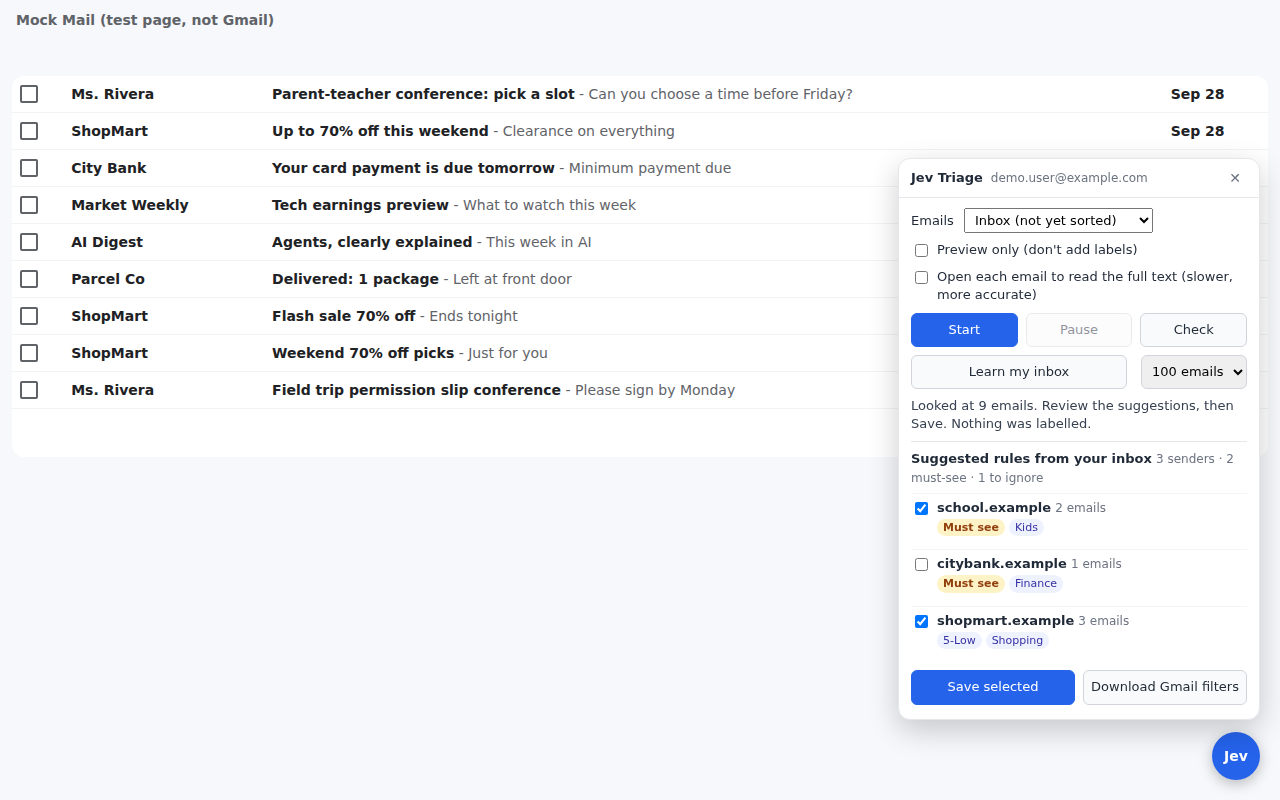
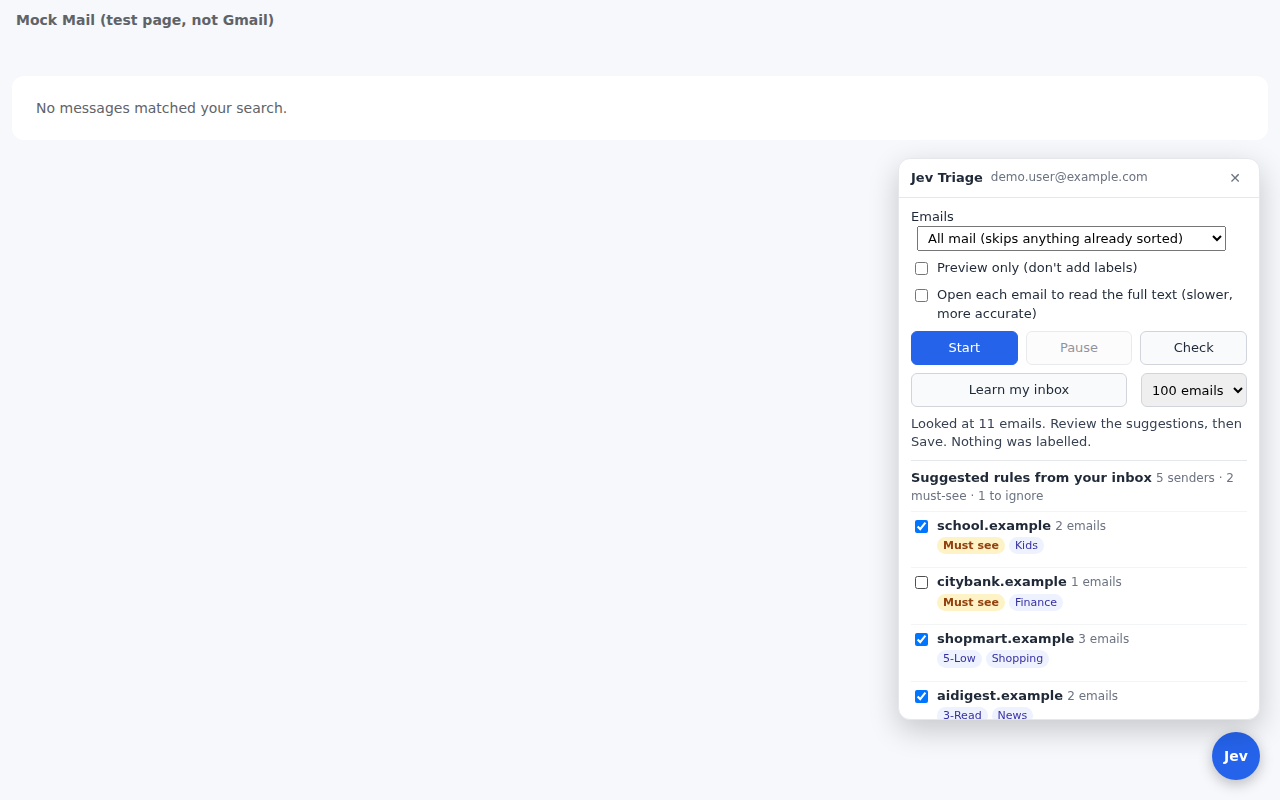
Sort all mail by default, resume reliably, skip failures
- All mail is the default scope; the run skips anything with a Jev action label
- Remembers sorted threads so a lagging Gmail search can't cause re-work
- Pages forward when everything visible is sorted; finishes when only skipped mail is left
- A failing email is skipped (and retried next run) instead of stopping the run
- Learn my inbox skips emails Jev can't classify
- Tests: paging, search-index lag, a failing email, and a second run that changes nothing

Claude-Session: https://claude.ai/code/session_01Rn7wA2DzfrgDYfL7tA3JVC

diff --git a/extension/content.js b/extension/content.js
@@ -32,8 +32,8 @@
     <div class="jev-head"><b>Jev Triage</b><span id="jev-me"></span><button id="jev-close" title="Hide">✕</button></div>
     <div class="jev-body">
       <label>Emails <select id="jev-scope">
-        <option value="inbox">Inbox (not yet sorted)</option>
-        <option value="all">All mail (not yet sorted)</option>
+        <option value="all" selected>All mail (skips anything already sorted)</option>
+        <option value="inbox">Inbox only (skips anything already sorted)</option>
         <option value="view">Current page only</option>
       </select></label>
       <label class="jev-check"><input type="checkbox" id="jev-preview"> Preview only (don't add labels)</label>
@@ -146,55 +146,91 @@
   }
 
   // ---------- the loop ----------
+  // Thread ids this browser has already sorted. Gmail's search index can lag a few seconds
+  // behind a label change, so labelled emails may still show up briefly; this list stops us
+  // re-doing them. The label itself is the real record (the search skips labelled mail).
+  async function loadDone() {
+    const { jevDone = [] } = await chrome.storage.local.get('jevDone');
+    return new Set(jevDone);
+  }
+  async function saveDone(done) {
+    const list = [...done];
+    await chrome.storage.local.set({ jevDone: list.slice(-50000) });
+  }
+
   async function run() {
     tax = await T.load();
     const scope = SCOPES[$('jev-scope').value];
     const opts = { preview: $('jev-preview').checked, deep: $('jev-deep').checked };
+    const done = opts.preview ? new Set() : await loadDone();
     running = true; doneThisRun.clear();
     $('jev-start').disabled = true; $('jev-stop').disabled = false;
-    let handled = 0;
+    let handled = 0, failed = 0, failStreak = 0, page = 1, idleReloads = 0, advancedPastSorted = false;
+    const query = scope.query ? scope.query + ' ' + T.unsortedQuery(tax) : null;
     try {
       while (running) {
-        if (scope.query) {
-          status('Loading ' + scope.name + '…');
-          await UI.settle(2000);                              // let Gmail save before reloading the list
-          UI.goToSearch(scope.query + ' ' + T.unsortedQuery(tax));
+        if (query) {
+          status(`Loading ${scope.name}${page > 1 ? ', page ' + page : ''}… (${handled} sorted so far)`);
+          await UI.settle(1500);                              // let Gmail save before reloading the list
+          UI.goToSearch(query, page);
           const state = await UI.waitForList();
-          if (state === 'empty') { status(`All done: nothing left to sort in ${scope.name}. (${handled} this run)`); break; }
-          if (!state) throw new Error('Gmail list did not load.');
+          if (!state) throw new Error('Gmail list did not load. Check your connection and press Start again.');
+          if (state === 'empty') {
+            // Nothing past the sorted/skipped emails on the previous page: we're finished.
+            if (page > 1 && !advancedPastSorted) { page = 1; continue; }   // pages shifted: re-check page 1
+            status(`All done: nothing left to sort in ${scope.name}. ${handled} sorted this run${failed ? `, ${failed} skipped (they'll be retried next time)` : ''}.`);
+            break;
+          }
         }
-        const rows = UI.listRows().map(UI.readRow).filter(r => !doneThisRun.has(r.id));
+        const visible = UI.listRows().map(UI.readRow);
+        const rows = visible.filter(r => !doneThisRun.has(r.id) && !done.has(r.id));
         if (!rows.length) {
-          status(`Finished this page. ${handled} sorted this run.`);
-          break;
+          if (!query) { status(`Done. ${handled} emails.`); break; }
+          // Everything on screen is already sorted: either Gmail's search hasn't caught up yet,
+          // or the remaining unsorted mail is on a later page.
+          if (idleReloads < 2) { idleReloads++; status('Waiting for Gmail to catch up…'); await UI.sleep(4000); continue; }
+          idleReloads = 0; page++; advancedPastSorted = true;
+          if (page > 200) { status(`Stopped after 200 pages. ${handled} sorted.`); break; }
+          continue;
         }
-        const before = handled;
+        idleReloads = 0; advancedPastSorted = false;
         for (const r of rows) {
           if (!running) break;
           status(`(${handled + 1}) ${r.subject.slice(0, 60)}`);
           try {
             await handle(r, opts);
+            failStreak = 0;
           } catch (e) {
-            if (!UI.dismissGmailError() && !/not showing|not visible|did not open|Lost track/.test(e.message)) throw e;
-            status('Gmail hiccuped, waiting 8 s and retrying this email…');
-            await UI.sleep(8000);
-            const again = UI.findRowById(r.id);
-            if (again) { for (const cb of UI.listRows()) await UI.setSelected(cb, false).catch(() => {}); await handle(r, opts); }
+            // One bad email shouldn't end the run: dismiss Gmail's error, clear the selection, move on.
+            UI.dismissGmailError();
+            for (const row of UI.listRows()) await UI.setSelected(row, false).catch(() => {});
+            failed++; failStreak++;
+            logSkip(r, e.message);
+            if (failStreak >= 5) throw new Error('5 emails in a row failed. Last error: ' + e.message);
+            await UI.sleep(3000);
           }
           doneThisRun.add(r.id);
-          handled++;
+          if (failStreak === 0 && !opts.preview) { done.add(r.id); if (handled % 10 === 0) await saveDone(done); }
+          if (failStreak === 0) handled++;
           if (opts.preview && handled >= 10) { running = false; status('Preview of 10 done. Untick "Preview only" to label.'); }
-          if (!(await UI.settle(1500))) { status('Gmail showed an error; pausing 10 s…'); await UI.sleep(10000); }
+          if (!(await UI.settle(1200))) { status('Gmail showed an error; pausing 10 s…'); await UI.sleep(10000); }
         }
-        if (!scope.query || opts.preview) { if (running) status(`Done. ${handled} emails.`); break; }
-        if (handled === before) break;         // safety: nothing got done on this page
+        if (!query || opts.preview) { if (running) status(`Done. ${handled} emails.`); break; }
       }
+      if (!running && !/All done|Preview/.test($('jev-status').textContent)) status(`Paused. ${handled} sorted this run. Press Start to continue where it left off.`);
     } catch (e) {
-      status('Stopped: ' + e.message, true);
+      status('Stopped: ' + e.message + ` (${handled} sorted). Press Start to continue.`, true);
     } finally {
+      if (!opts.preview) await saveDone(done);
       running = false;
       $('jev-start').disabled = false; $('jev-stop').disabled = true;
     }
+  }
+
+  function logSkip(r, msg) {
+    const li = document.createElement('li');
+    li.innerHTML = `<span class="jev-subj">${esc(r.subject)}</span><span class="jev-chip jev-u" title="${esc(msg)}">skipped: ${esc(msg.slice(0, 60))}</span>`;
+    $('jev-log').prepend(li);
   }
 
   // ---------- Learn my inbox: suggest sender rules for THIS user ----------
@@ -260,7 +296,8 @@
       for (const r of rows) {
         if (!running) break;
         status(`Learning ${results.length + 1}/${rows.length}: ${r.subject.slice(0, 50)}`);
-        results.push({ r, res: await askJev(r, '') });
+        try { results.push({ r, res: await askJev(r, '') }); }
+        catch (e) { if (/API key/.test(e.message)) throw e; }   // one odd email shouldn't stop learning
       }
       suggestions = suggest(results);
       renderSuggestions();

diff --git a/test/mock-gmail.html b/test/mock-gmail.html
@@ -13,6 +13,8 @@
     • searching for "not yet sorted" mail hides a row as soon as it gets an action label (Jev/1-…6-)
   URL options:  ?oops=N  shows Gmail's "Oops, something went wrong" on the Nth label change
                 ?existing=Label1,Label2  labels that already exist
+                ?pagesize=N  rows per page (Gmail shows 50); "#search/…/p2" opens page 2
+                ?lag=N  sorted emails keep showing in "not yet sorted" for N more reloads (search index lag)
   If Gmail changes and the extension breaks, update this file to match the new page, then fix SEL.
 -->
 <style>
@@ -55,10 +57,16 @@ const MAIL = [
   { id: 't7', from: ['ShopMart', 'offers@news.shopmart.example'], subject: 'Flash sale 70% off', snippet: 'Ends tonight' },
   { id: 't8', from: ['ShopMart', 'deals@shopmart.example'], subject: 'Weekend 70% off picks', snippet: 'Just for you' },
   { id: 't9', from: ['Ms. Rivera', 'teacher@school.example'], subject: 'Field trip permission slip conference', snippet: 'Please sign by Monday' },
+  { id: 't10', from: ['Odd Sender', 'x@broken.example'], subject: 'BROKEN email the classifier rejects', snippet: 'test of a failure' },
+  { id: 't11', from: ['Parcel Co', 'track@parcel.example'], subject: 'Out for delivery today', snippet: 'Arriving by 8pm' },
+  { id: 't12', from: ['AI Digest', 'hello@aidigest.example'], subject: 'Agents part 2', snippet: 'More on agents' },
 ];
 const params = new URLSearchParams(location.search);
 const EXISTING = new Set((params.get('existing') || 'Jev/5-Low,Topic/Shopping').split(',').filter(Boolean));
 const OOPS_AT = Number(params.get('oops') || 0);
+const PAGE_SIZE = Number(params.get('pagesize') || 50);
+const LAG = Number(params.get('lag') || 0);
+let reloads = 0; const sortedAt = {};
 const applied = {}; window.__applied = applied; window.__created = []; window.__archived = [];
 let labelChanges = 0;
 
@@ -67,7 +75,11 @@ const unsortedOnly = () => decodeURIComponent(location.hash).includes('-label:je
 
 function render() {
   const tb = document.getElementById('tb'); tb.innerHTML = '';
-  const list = MAIL.filter(m => !window.__archived.includes(m.id) && !(unsortedOnly() && (applied[m.id] || []).some(isAction)));
+  reloads++;
+  const hidden = id => (applied[id] || []).some(isAction) && sortedAt[id] !== undefined && reloads - sortedAt[id] > LAG;
+  const all = MAIL.filter(m => !window.__archived.includes(m.id) && !(unsortedOnly() && hidden(m.id)));
+  const pageNo = Number((location.hash.match(/\/p(\d+)$/) || [])[1] || 1);
+  const list = all.slice((pageNo - 1) * PAGE_SIZE, pageNo * PAGE_SIZE);
   document.getElementById('empty').textContent = list.length ? '' : 'No messages matched your search.';
   for (const m of list) {
     const tr = document.createElement('tr'); tr.className = 'zA zE';
@@ -105,8 +117,9 @@ function addLabel(name, { archive = false } = {}) {
   if (OOPS_AT && labelChanges === OOPS_AT) { oops(); return; }
   for (const id of selected()) {
     (applied[id] = applied[id] || []).push(name);
+    if (isAction(name) && sortedAt[id] === undefined) sortedAt[id] = reloads;
     if (archive) window.__archived.push(id);
-    if (archive || (isAction(name) && unsortedOnly())) document.querySelector(`[data-legacy-thread-id="${id}"]`).closest('tr').remove();
+    if (archive || (isAction(name) && unsortedOnly() && !LAG)) document.querySelector(`[data-legacy-thread-id="${id}"]`).closest('tr').remove();
   }
   syncButtons();
 }

diff --git a/extension/gmail-ui.js b/extension/gmail-ui.js
@@ -305,11 +305,11 @@
     await settle(1500);
   }
 
-  function goToSearch(query) {
+  function goToSearch(query, page = 1) {
     // A harmless alternating term forces Gmail to re-run the search (so labelled threads drop out).
     root.__jevFlip = !root.__jevFlip;
     const q = query + (root.__jevFlip ? ' -in:chats' : ' -in:spam');
-    location.hash = '#search/' + encodeURIComponent(q).replace(/%20/g, '+');
+    location.hash = '#search/' + encodeURIComponent(q).replace(/%20/g, '+') + (page > 1 ? '/p' + page : '');
   }
 
   async function waitForList() {

diff --git a/README.md b/README.md
@@ -53,7 +53,12 @@ Choose how many recent emails to look at and click **Learn my inbox**. Jev class
 
 ### 5. Sort
 
-Pick **Inbox** or **All mail** and click **Start**. Keep the tab open; it works through the list and reloads it until nothing is left. **Pause** stops after the current email.
+Leave **All mail** selected and click **Start**. Keep the tab open (and visible, so Chrome doesn't slow it down).
+
+- **Why the address bar changes:** Start opens a Gmail search for emails that don't have a `Jev/` action label yet (`-label:jev-1-reply -label:jev-2-action …`). That search is how it skips anything already sorted, by this extension or by your imported filters.
+- **It keeps going on its own:** it works through the list, reloads it, waits if Gmail's search is a few seconds behind, and moves to later pages until nothing unsorted is left.
+- **One bad email doesn't stop it:** if an email fails (Gmail hiccup, Jev error) it's skipped, shown in red in the panel, and retried on the next Start. It only stops if 5 in a row fail.
+- **Pause and Start again any time:** it remembers what it already sorted and carries on.
 
 ![Sorting in progress](docs/images/04-running.png)
 
